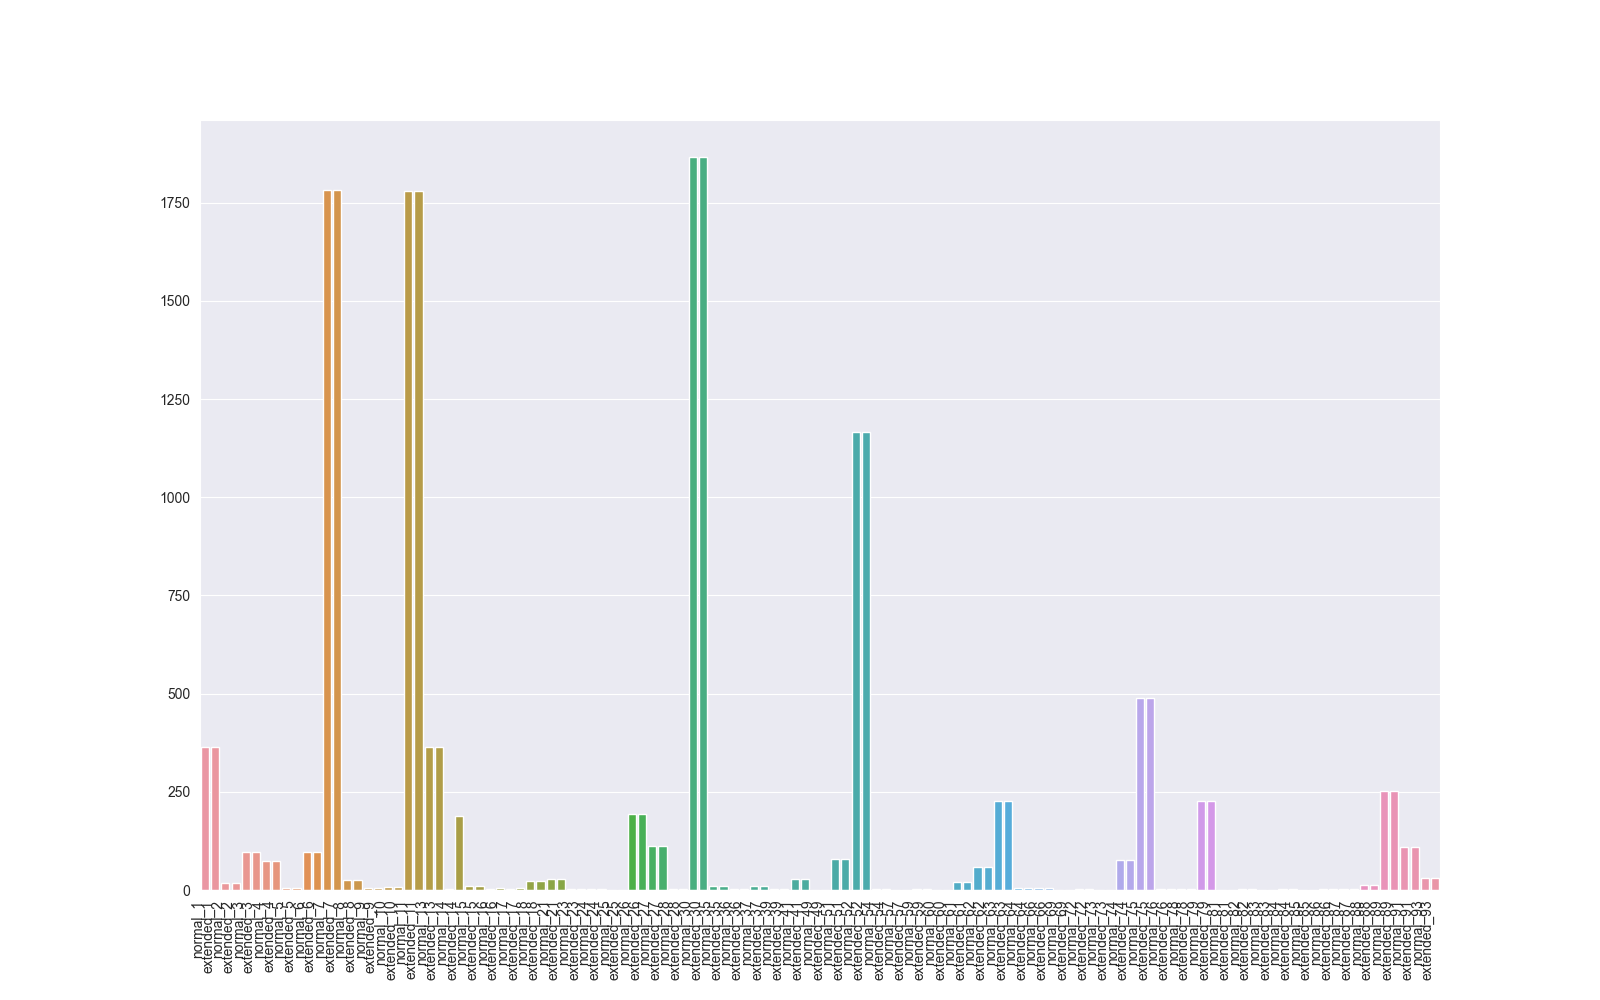
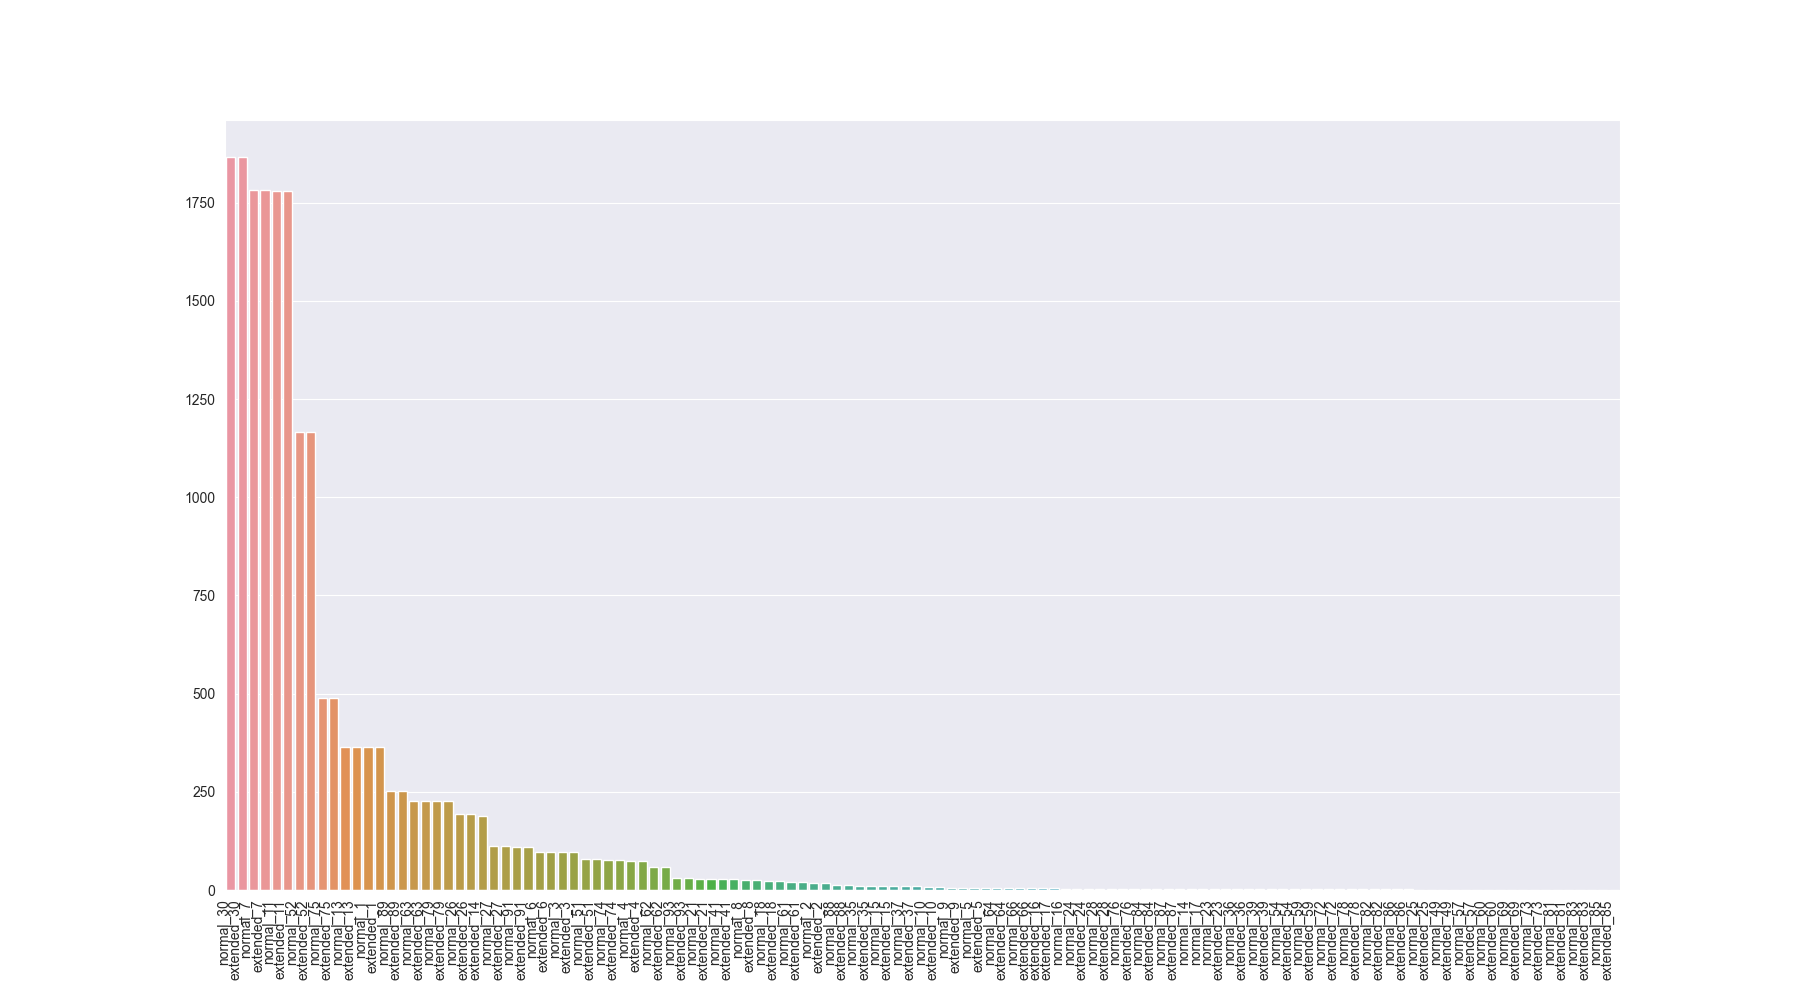
Added sorting before plotting chart

Changed region(s): [[0.0938, 0.155, 0.9062, 0.992]]

diff --git a/inoagent_detection/stats_and_compare.py b/inoagent_detection/stats_and_compare.py
@@ -12,10 +12,22 @@ RESULTS_SEP_PTNS = "autotest_db/results_separate_patterns_db_new.pkl"
 RESULTS_SEP_PTNS_NEW = "autotest_db/results_separate_patterns_db_new.pkl"
 
 
+def sort_dict(dict2sort) -> dict:
+    sorted_list = []
+    for key, value in dict2sort.items():
+        sorted_list.append((key, len(value)))
+    sorted_list.sort(key=lambda x:x[1], reverse=True)
+    sorted_dict = {}
+    for k, _ in sorted_list:
+        sorted_dict[k] = dict2sort[k]
+    return sorted_dict
+
+
 def print_stats(path=RESULTS_SEP_PTNS_NEW) -> None:
     """Function to print basic stats about results."""
     with open(path, "rb") as pkl_file:
         results_sep = pickle.load(pkl_file, encoding="utf-8")
+    results_sep = sort_dict(results_sep)
     for key, value in results_sep.items():
         if len(value) > 0:
             print(f"Pattern: {key} Quantity: {len(value)}")
@@ -25,7 +37,7 @@ def print_stats(path=RESULTS_SEP_PTNS_NEW) -> None:
     sns.set_style("darkgrid")
     sns_plot = sns.barplot(x=keys, y=vals)
     sns_plot.set_xticklabels(sns_plot.get_xticklabels(),rotation=90,ha='right')
-    sns_plot.figure.set_figwidth(16)
+    sns_plot.figure.set_figwidth(18)
     sns_plot.figure.set_figheight(10)
     sns_plot.figure.savefig("autotest_db/results_chart.png")
 
@@ -55,10 +67,10 @@ def normal_vs_extended(path=RESULTS_SEP_PTNS_NEW) -> None:
             results.get(f"normal_{i}"), results.get(f"extended_{i}"))
         if only_in_normal != []:
             print(f"\n********* Only in normal_{i}: *********")
-            pprint(only_in_normal)
+            print(only_in_normal)
         if only_in_extended != []:
             print(f"\n********* Only in extended_{i}: *********")
-            pprint(only_in_extended)
+            print(only_in_extended)
 
 
 def test_regex() -> None:
@@ -66,9 +78,9 @@ def test_regex() -> None:
 
 
 def main():
-    # get_sep_patterns_results(RESULTS_SEP_PTNS_NEW, load_old=False)
+    get_sep_patterns_results(RESULTS_SEP_PTNS_NEW, load_old=False)
     # print_stats(RESULTS_SEP_PTNS)
-    normal_vs_extended()
+    # normal_vs_extended()
 
 if __name__ == "__main__":
     main()
